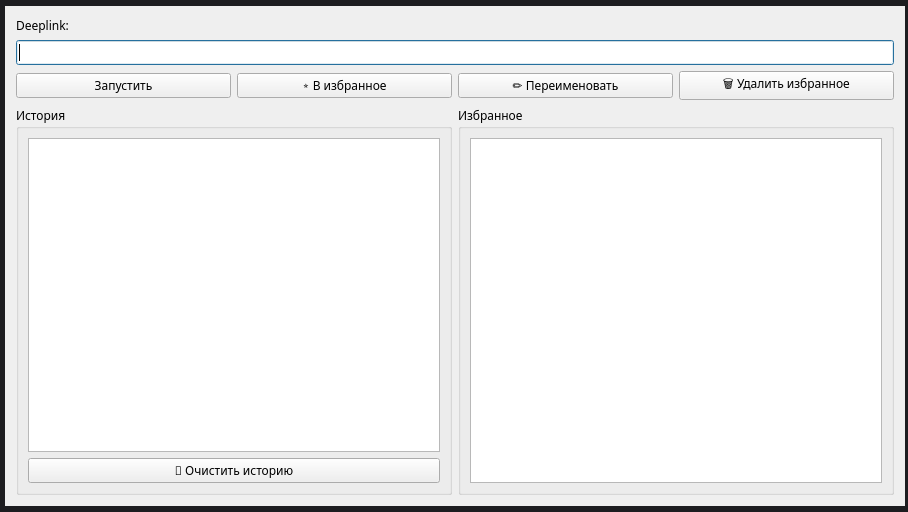
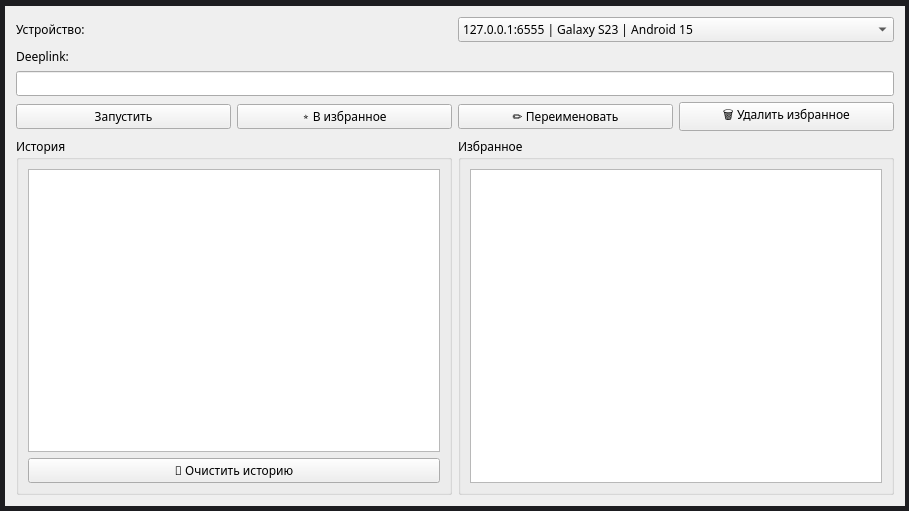
fix show devices, update preview image

diff --git a/deeplink_runner_qt.py b/deeplink_runner_qt.py
@@ -24,15 +24,57 @@ DATA_FILE = "deeplinks.json"
 
 
 # ---------- ADB ----------
-def get_devices():
+def get_devices_info():
+    devices = []
+
     try:
         result = subprocess.run(
-            ["adb", "devices"], capture_output=True, text=True, check=True
+            ["adb", "devices", "-l"], capture_output=True, text=True, check=True
         )
+
         lines = result.stdout.strip().splitlines()[1:]
-        return [line.split()[0] for line in lines if "device" in line]
+
+        for line in lines:
+            if "device" not in line:
+                continue
+
+            parts = line.split()
+            serial = parts[0]
+
+            info = {"serial": serial, "model": "Unknown", "android": "?"}
+
+            # model из adb devices -l
+            for part in parts:
+                if part.startswith("model:"):
+                    info["model"] = part.replace("model:", "").replace("_", " ")
+
+            # версия Android
+            try:
+                version = subprocess.run(
+                    [
+                        "adb",
+                        "-s",
+                        serial,
+                        "shell",
+                        "getprop",
+                        "ro.build.version.release",
+                    ],
+                    capture_output=True,
+                    text=True,
+                    timeout=2,
+                ).stdout.strip()
+
+                if version:
+                    info["android"] = version
+            except Exception:
+                pass
+
+            devices.append(info)
+
     except Exception:
-        return []
+        pass
+
+    return devices
 
 
 def run_deeplink(device, deeplink):
@@ -63,7 +105,7 @@ class DeeplinkLauncher(QWidget):
     def __init__(self):
         super().__init__()
 
-        self.devices = get_devices()
+        self.devices = get_devices_info()
         self.data = load_data()
 
         self.setWindowTitle("ADB Deeplink Launcher")
@@ -80,9 +122,13 @@ class DeeplinkLauncher(QWidget):
             device_layout.addWidget(QLabel("Устройство:"))
 
             self.device_combo = QComboBox()
-            self.device_combo.addItems(self.devices)
-            device_layout.addWidget(self.device_combo)
+            for device in self.devices:
+                self.device_combo.addItem(
+                    self.format_device(device),
+                    device["serial"],  # userData
+                )
 
+            device_layout.addWidget(self.device_combo)
             main_layout.addLayout(device_layout)
         else:
             self.device_combo = None
@@ -156,7 +202,7 @@ class DeeplinkLauncher(QWidget):
     # ---------- Actions ----------
     def current_device(self):
         if self.device_combo:
-            return self.device_combo.currentText()
+            return self.device_combo.currentData()
         return None
 
     def launch(self):
@@ -265,6 +311,9 @@ class DeeplinkLauncher(QWidget):
     @staticmethod
     def format_favorite(fav):
         return f"{fav['name']}  →  {fav['deeplink']}"
+
+    def format_device(self, device):
+        return f"{device['serial']} | {device['model']} | Android {device['android']}"
 
 
 # ---------- Run ----------
